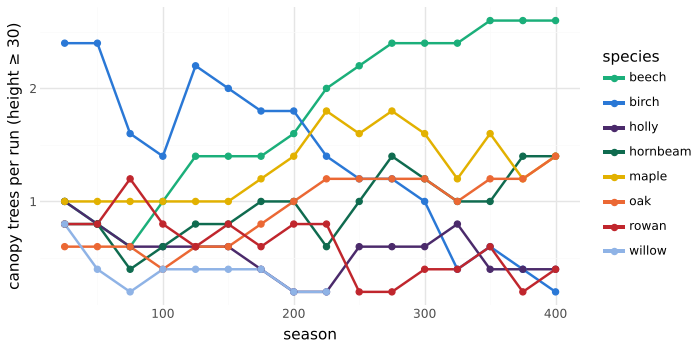
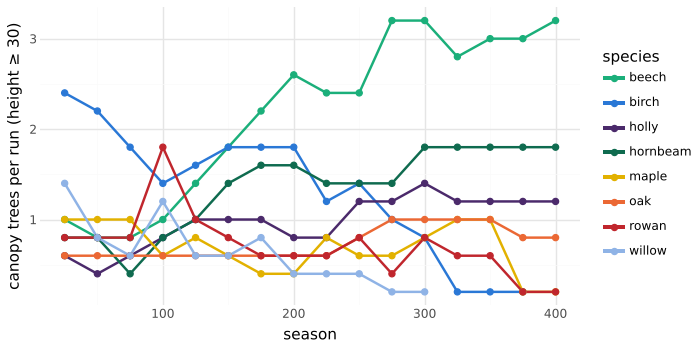
M25 follow-ups: field maple's lighter shade; seed rain brings willow back to clearings
Field maple cast a floor as dark as beech's and crowded the mixed wood's canopy. A lighter crown,
cheaper leaves and thicker tips put its floor between oak's and beech's.

O4 seeds came only from parents in the world, so goat willow could never return once it died out.
Seed rain (ADR 0018, agreed with the user; spec §O4 amended) adds per-species seeds from beyond the
world. It is off by default, so goldens are unchanged. A clearing in an old mixed wood now gets
willow in every seed tested, against none without it.

Claude-Session: https://claude.ai/code/session_01WY2dARdXcUqS9Uigs6Gdgt

diff --git a/src/core/principles/o4-stand.ts b/src/core/principles/o4-stand.ts
@@ -11,8 +11,13 @@
  * become seedlings that start growing next season; they keep R1's seed reserve, so a seedling in
  * deep shade starves within a few seasons. The stand is capped at `maxTrees` live trees.
  *
+ * Seed rain (ADR 0018): a species with o4.rain > 0 also gets that many seeds a season per 100
+ * cells from beyond the world (wind-borne willow and birch travel kilometres), the count's
+ * fraction drawn and each landing uniformly [RNG: seedRain, keyed by species, seed and season].
+ * They establish by the same light, spacing and p_est rule, so they take only in large gaps.
+ *
  * Params: o4.enabled, o4.cSeed (c_seed), o4.d, o4.qEst (Q_est), o4.pEst (p_est), o4.m0 (m₀),
- * o4.maxTrees; r1.fRep, r1.maturity (the seed supply); c2.C.
+ * o4.maxTrees, o4.rain; r1.fRep, r1.maturity (the seed supply); c2.C.
  */
 
 import type { LightSample } from "../light/light-model.ts";
@@ -27,6 +32,13 @@ const ground: LightSample = { q: 0, vx: 0, vy: 0 };
 export function diesOfBackground(world: World, tree: Tree): boolean {
   const { params, season } = world;
   return uniform(params.seed, Purpose.mortality, tree.id, 0, season) < world.paramsOf(tree).o4.m0;
+}
+
+/** A stable number for a species name, to key its seed-rain draws (FNV-1a). */
+export function speciesKey(name: string): number {
+  let h = 0x811c9dc5;
+  for (let i = 0; i < name.length; i++) h = Math.imul(h ^ name.charCodeAt(i), 0x01000193);
+  return h >>> 0;
 }
 
 /** Laplace(0, d) from a uniform u in [0, 1). */
@@ -70,6 +82,32 @@ export function standDynamics(world: World): number {
       if (world.trees.some((t) => t.alive && Math.abs(t.rootX - x) < 1)) continue;
       const seedling = new Tree(world.trees.length, x);
       seedling.species = parent.species;
+      plantSeedling(seedling, own, season + 1);
+      world.trees.push(seedling);
+      live += 1;
+      recruits += 1;
+    }
+  }
+  // Seed rain from beyond the world, species by species in the table's order.
+  const kinds = params.species ? Object.keys(params.species) : [undefined];
+  for (const species of kinds) {
+    const own = world.paramsOfSpecies(species);
+    const rain = ((own.o4.rain ?? 0) * W) / 100;
+    if (!(rain > 0)) continue;
+    const key = species ? speciesKey(species) : 0;
+    const { qEst, pEst } = own.o4;
+    const n =
+      Math.floor(rain) +
+      (uniform(params.seed, Purpose.seedRain, key, 0, season) < rain % 1 ? 1 : 0);
+    for (let k = 0; k < n; k++) {
+      if (live >= o4.maxTrees) return recruits;
+      const x = uniform(params.seed, Purpose.seedRain, key, 1, season, k) * W;
+      light.sample(x, 0.5, Math.PI / 2, ground);
+      if (C <= 0 || ground.q / C < qEst) continue;
+      if (uniform(params.seed, Purpose.seedRain, key, 2, season, k) >= pEst) continue;
+      if (world.trees.some((t) => t.alive && Math.abs(t.rootX - x) < 1)) continue;
+      const seedling = new Tree(world.trees.length, x);
+      if (species) seedling.species = species;
       plantSeedling(seedling, own, season + 1);
       world.trees.push(seedling);
       live += 1;

diff --git a/src/core/flora.ts b/src/core/flora.ts
@@ -70,7 +70,8 @@ export const FLORA = {
     r3: { leafMass: 0.001, phi: 0.5 },
     r4: { qRel: 0.3 },
     r6: { enabled: true, qMin: 0.12, leafArea: 1.6 },
-    o4: { cSeed: 2, d: 40, qEst: 0.25, pEst: 0.3, m0: 0.008 },
+    // Seed rain (ADR 0018): wind-borne seed from birches beyond the world reaches large gaps.
+    o4: { cSeed: 2, d: 40, qEst: 0.25, pEst: 0.3, m0: 0.008, rain: 0.2 },
   },
   /** Mid-tolerant, long-lived, broad and decurrent when grown in the open. */
   oak: {
@@ -171,7 +172,10 @@ export const FLORA = {
     leaf: "maple",
     c3: { mode: "bh", lambda: 0.5, alpha: 3.2 },
     c5: { enabled: true, T: 0.02, Trel: 0.06 },
-    r1: { mf: 0.05, Lh: 45, maturity: 30 },
+    // A lighter crown than beech's (fewer short-shoot leaves, M25 follow-up): its floor sits
+    // between oak's and beech's; cheaper leaves and thicker tips keep saplings and stems as before.
+    c6: { enabled: true, r0: 0.024 },
+    r1: { mf: 0.04, Lh: 45, maturity: 30 },
     // Maple's buds are opposite and decussate: each pair turns 90° from the last, so only every
     // other pair lies in the plane. That is one bud a node, as distichous gives; the "opposite"
     // generator doubled the in-plane buds and cast a floor darker than beech's.
@@ -188,7 +192,7 @@ export const FLORA = {
     },
     // Hard, dense wood (as oak's): ascending limbs hold a rounded crown instead of sagging flat.
     r3: { E: 2.5e6, c: 0.15, betaG: 0.2 },
-    r6: { enabled: true, qMin: 0.045, leafArea: 1.8 },
+    r6: { enabled: true, qMin: 0.045, leafArea: 1.5 },
     o4: { cSeed: 5, d: 25, qEst: 0.05, pEst: 0.3, m0: 0.004 },
   },
   /** Evergreen understorey tree: a deep, dark, conical crown that keeps its lower limbs in shade. */
@@ -264,8 +268,9 @@ export const FLORA = {
     },
     r4: { qRel: 0.3 },
     r6: { enabled: true, qMin: 0.15, leafArea: 1.5 },
-    // Tiny plumed seeds blow far but need bare, lit ground; a short life.
-    o4: { cSeed: 1.5, d: 60, qEst: 0.3, pEst: 0.3, m0: 0.012 },
+    // Tiny plumed seeds blow far but need bare, lit ground; a short life. Seed rain (ADR 0018)
+    // brings willow back to clearings after it has died out in the wood.
+    o4: { cSeed: 1.5, d: 60, qEst: 0.3, pEst: 0.3, m0: 0.012, rain: 1 },
   },
   /** Light-demanding pine, Rauh's model: whorls, a clean bole and a high crown (a lab species). */
   pine: {

diff --git a/src/core/flora.test.ts b/src/core/flora.test.ts
@@ -247,10 +247,32 @@ describe("the M25 species", () => {
         ["holly", "hornbeam"],
       );
     }
-    // Measured (5 seeds): birch and willow 2.8 canopy trees a run at season 50, 0.6 at 350;
-    // beech 2.6 at 350, the most of any species; holly and hornbeam 4.4 live trees.
+    // Measured (10 seeds, with seed rain): birch and willow 2.8 canopy trees a run at season 50,
+    // 0.1 at 350; beech 3.1 at 350, the most of any species; holly and hornbeam 6.8 live trees.
     expect(late).toBeLessThan(0.4 * early);
     expect(beech).toBeGreaterThanOrEqual(SEEDS.length);
     expect(shadeBearers).toBeGreaterThanOrEqual(2 * SEEDS.length);
+  });
+
+  it("brings goat willow back to a clearing only through seed rain (ADR 0018)", () => {
+    // An old mixed wood, a 60-cell clearing felled at season 300, then 40 seasons. Measured
+    // (6 seeds): no willow in any clearing without rain, 1–2 in every one with it.
+    const willows = (rain: boolean) =>
+      SEEDS.map((seed) => {
+        const params = presetParams("mixedWood", seed);
+        if (!rain)
+          for (const sp of Object.values(params.species ?? {}))
+            if (sp.o4) sp.o4 = { ...sp.o4, rain: 0 };
+        const world = new World(params);
+        world.run(300);
+        for (const t of world.trees)
+          if (t.alive && t.rootX >= 60 && t.rootX < 120) world.removeTree(t.id);
+        world.run(40);
+        return world.trees.filter(
+          (t) => t.alive && t.rootX >= 55 && t.rootX < 125 && t.species === "willow",
+        ).length;
+      });
+    for (const n of willows(false)) expect(n).toBe(0);
+    for (const n of willows(true)) expect(n).toBeGreaterThanOrEqual(1);
   });
 });

diff --git a/src/core/principles/o2-o4.test.ts b/src/core/principles/o2-o4.test.ts
@@ -69,6 +69,25 @@ describe("O4 stand dynamics (§O4, ADR 0013)", () => {
     expect(open.trees.length).toBeLessThan(ring.trees.length);
   });
 
+  it("rains seeds in from beyond the world, per species, at rain per 100 cells (ADR 0018)", () => {
+    // A world with no seed pool: only the rain recruits. 100 cells, rain 3 → 3 seeds a season.
+    const rained = (rain: number, species?: ParamsPatch["species"]) => {
+      const w = world({ species, o4: { enabled: true, rain } as Params["o4"] });
+      return { recruits: standDynamics(w), trees: w.trees };
+    };
+    expect(rained(0).recruits).toBe(0);
+    const on = rained(3);
+    expect(on.recruits).toBe(3); // every cell lit, p_est 1, the planted trunk at 50 aside
+    // Per species: only the species with rain arrives, and it is of that species.
+    const mixed = rained(0, { willow: { o4: { rain: 3 } }, oak: {} });
+    expect(mixed.recruits).toBe(3);
+    for (const t of mixed.trees.slice(1)) expect(t.species).toBe("willow");
+    // The same light rule as local seeds: nothing where the ground is below Q_est.
+    expect(rained(3, undefined).trees.length).toBe(4);
+    const shaded = world({ o4: { enabled: true, rain: 3, qEst: 2 } as Params["o4"] });
+    expect(standDynamics(shaded)).toBe(0);
+  });
+
   it("kills trees of background risk at rate m₀", () => {
     const w = world({ o4: { m0: 1 } });
     (w.trees[0] as Tree).age = 1;

diff --git a/src/core/params.ts b/src/core/params.ts
@@ -384,6 +384,13 @@ export interface Params {
     m0: number;
     /** Cap on live trees, so a page cannot run away. */
     maxTrees: number;
+    /**
+     * Seed rain (ADR 0018): seeds a season, per 100 cells of ground, that blow or are carried in
+     * from beyond the world and land anywhere, then establish by the same rule as local seeds.
+     * Per species, so a light-seeded pioneer can return to a clearing after it has died out
+     * locally. 0 or absent: off, only parents in the world seed it (calibrate).
+     */
+    rain?: number;
   };
 
   /** R6 Short shoots (spec §R6, ADR 0006). Off = baseline: every live bud is one unit of leaf area. */
@@ -498,7 +505,7 @@ export const defaultParams: Params = {
   r6: { enabled: false, qMin: 0.2, leafArea: 1 }, // calibrate (M6d)
   // M11 calibration (docs/experiments/2026-10-27-m11-stand-dynamics.md).
   o2: { enabled: false, sway: 0.0005, maxSway: 3, pAbr: 0.5, stormP: 0, stormLoad: 1.5 },
-  o4: { enabled: false, cSeed: 5, d: 20, qEst: 0.1, pEst: 0.3, m0: 0.002, maxTrees: 300 },
+  o4: { enabled: false, cSeed: 5, d: 20, qEst: 0.1, pEst: 0.3, m0: 0.002, maxTrees: 300, rain: 0 },
 };
 
 /** A partial set of overrides, merged one level deep into each section. */

diff --git a/src/core/world.ts b/src/core/world.ts
@@ -101,17 +101,22 @@ export class World {
    * params object itself, so single-species worlds are exactly as before.
    */
   paramsOf(tree: Tree): Params {
-    if (!tree.species) return this.params;
-    let p = this.speciesParams.get(tree.species);
+    return this.paramsOfSpecies(tree.species);
+  }
+
+  /** The params a tree of `species` grows by (the world's for none; cached per species). */
+  paramsOfSpecies(species: string | undefined): Params {
+    if (!species) return this.params;
+    let p = this.speciesParams.get(species);
     if (!p) {
-      const patch = this.params.species?.[tree.species];
+      const patch = this.params.species?.[species];
       if (patch) {
         const { common: _c, latin: _l, leaf: _f, ...groups } = patch;
         p = mergeParams(this.params, groups);
       } else {
         p = this.params;
       }
-      this.speciesParams.set(tree.species, p);
+      this.speciesParams.set(species, p);
     }
     return p;
   }

diff --git a/src/web/ui/panel.ts b/src/web/ui/panel.ts
@@ -231,6 +231,7 @@ const SECTIONS: SectionSpec[] = [
       { key: "qEst", label: "Q_est ground light", min: 0, max: 1, step: 0.01 },
       { key: "pEst", label: "p_est", min: 0, max: 1, step: 0.05 },
       { key: "m0", label: "m₀ background death", min: 0, max: 0.05, step: 0.001 },
+      { key: "rain", label: "seed rain /100 cells", min: 0, max: 5, step: 0.1 },
     ],
   },
 ];

diff --git a/src/core/rng.ts b/src/core/rng.ts
@@ -28,6 +28,7 @@ export const Purpose = {
   establishment: 10, // O4
   mortality: 11, // O4
   initialPositions: 12,
+  seedRain: 13, // O4: seeds from beyond the world (ADR 0018)
 } as const;
 export type Purpose = (typeof Purpose)[keyof typeof Purpose];
 

diff --git a/docs/experiments/2026-10-28-m25-species.md b/docs/experiments/2026-10-28-m25-species.md
@@ -71,7 +71,7 @@ The settings are M19's (`oakOpen` principles, 5 seeds each): a lone tree on 160 
 | Beech | 84 | 1.06 | 40 | 57° | 79 | 68 | 0.47 | 3.4% | 3% |
 | Fir | 110 | 0.41 | 49 | 75° | 84 | 65 | 0.76 | 6% | 2% |
 | **Hornbeam** | 62 | 1.46 | 37 | 54° | 64 | 61 | 0.31 | 2.4% | 3% |
-| **Field maple** | 62 | 0.97 | 57 | 45° | 59 | 74 | 0.40 | 3.4% | 5% |
+| **Field maple** | 63 | 1.02 | 58 | 44° | 56 | 70 | 0.53 | 4.0% | 5% |
 | **Holly** | 63 | 0.49 | 55 | 65° | 54 | 62 | 0.76 | 2.4% | 3% |
 | **Rowan** | 65 | 0.73 | 68 | 39° | 54 | 74 | 0.60 | 10% | 8% |
 | **Goat willow** | 44 | 2.31 | 29 | 53° | 43 | 40 | 0.48 | 13% | 19% |
@@ -109,24 +109,24 @@ The settings are M19's (`oakOpen` principles, 5 seeds each): a lone tree on 160 
 
 | Season | Beech | Birch | Hornbeam | Maple | Oak | Holly | Rowan | Willow |
 |---|---|---|---|---|---|---|---|---|
-| 50 | 0.8 | 2.4 | 0.8 | 1.0 | 0.6 | 0.8 | 0.8 | 0.4 |
-| 100 | 1.0 | 1.4 | 0.6 | 1.0 | 0.4 | 0.6 | 0.8 | 0.4 |
-| 200 | 1.6 | 1.8 | 1.0 | 1.4 | 1.0 | 0.2 | 0.8 | 0.2 |
-| 300 | 2.4 | 1.0 | 1.2 | 1.6 | 1.2 | 0.6 | 0.4 | 0 |
-| 400 | 2.6 | 0.2 | 1.4 | 1.4 | 1.4 | 0.4 | 0.4 | 0 |
+| 50 | 0.8 | 2.2 | 0.8 | 1.0 | 0.6 | 0.4 | 0.8 | 0.8 |
+| 100 | 1.0 | 1.4 | 0.8 | 0.6 | 0.6 | 0.8 | 1.8 | 1.2 |
+| 200 | 2.6 | 1.8 | 1.6 | 0.4 | 0.6 | 0.8 | 0.6 | 0.4 |
+| 300 | 3.2 | 0.8 | 1.8 | 0.8 | 1.0 | 1.4 | 0.8 | 0.2 |
+| 400 | 3.2 | 0 | 1.8 | 0.2 | 0.8 | 1.2 | 0.2 | 0 |
 
-- **Pioneers.** Birch leads for a century, and storm gaps keep it in the canopy to about season 250; by 400 it is almost gone. Goat willow holds a few small trees until about season 225 and then dies out. Its seeds need lit ground that an understorey of hornbeam, holly and maple seldom leaves.
-- **Beech** rises steadily to the most canopy trees, with 3.6 more per run coming up beneath at season 400.
+(These are the numbers after the follow-ups below: maple's lighter crown and seed rain.)
+
+- **Pioneers.** Birch leads for a century, and storm gaps keep it in the canopy to about season 300; by 400 it is gone. Goat willow holds a canopy tree or so to season 100, then lingers as small trees that seed rain brings into storm gaps.
+- **Beech** rises steadily to the most canopy trees, with 3 more per run coming up beneath at season 400.
 - **Hornbeam** rises beside it, as in oak–hornbeam–beech woods. Its saplings are always in the understorey (Dietz et al. 2022).
-- **Field maple** does better than expected: it holds 1.4–1.6 canopy trees from season 200, with many saplings.
+- **Field maple** holds 0.2–1 canopy trees, with saplings beneath. Before its follow-up it held 1.4–1.6, as many as hornbeam.
 - **Oak** holds on at about one tree a run. Storm gaps let it back in, but its saplings rarely reach the canopy.
-- **Holly and rowan** persist as small trees, in the canopy count and below it. Holly's numbers hinged on its seed cost: at c_seed 4 it overran the wood (3 canopy and 6 understorey trees a run by season 400), so the dioecy correction matters.
+- **Holly and rowan** persist as small trees, in the canopy count and below it. Holly gains slowly, to 1.2 canopy and 1.8 smaller trees per run at season 400. Holly's numbers hinged on its seed cost: at c_seed 4 it overran the wood (3 canopy and 6 understorey trees a run by season 400), so the dioecy correction matters.
 
 ## Deviations and caveats
 - **The new species' tolerance scores are approximate** (see the targets). The ordering is standard, but the numbers should be checked against Niinemets & Valladares's appendix.
-- **Field maple's floor (3.4%) is as dark as beech's,** where maple should cast lighter shade. With opposite buds on every axis, which doubles the buds in the plane, it was darker still (2.5%), so maple now uses distichous buds (one a node in the plane, as a decussate pair turning 90° gives).
-- **Field maple may be too vigorous** in the mixed wood: it is as common in the canopy as hornbeam.
-- **Goat willow never re-establishes after its first generation.** A real wood reseeds willow into large storm gaps or clearings. The model's storms snap and throw single trees, which leaves the shade-bearers' understorey in place. A bigger disturbance (a clearing, or a felled patch in the garden) should let it back in; that is not tested here.
+- **Field maple's buds are distichous in the model.** With opposite buds on every axis, which doubles the buds in the plane, its floor was 2.5%, darker than beech's. A decussate pair turning 90° puts one bud a node in the plane, as distichous does.
 - **Rowan stands are slender (H/D 74),** and so is the open-grown rowan (68). Rowan is a slender tree, but the open value is likely high.
 - **Pine is a lab species,** calibrated only in the open and in pure stands. Open-grown, it reads as a young pine (conical, whorled), not the flat-topped old pine of the Caledonian forest. That would need R2's late loss of apical control over more seasons.
 
@@ -137,7 +137,16 @@ The settings are M19's (`oakOpen` principles, 5 seeds each): a lone tree on 160 
   - deep shade under hornbeam and holly, light shade under pine and willow;
   - each species' characteristic form.
 - In the mixed wood, pioneers fade, beech and hornbeam rise, and holly, rowan and maple persist beneath. That is the composition of an old lowland wood, and it emerges without scripting.
-- **Follow-ups:**
-  - check the tolerance scores against the appendix;
-  - lighten field maple's shade, perhaps with a lower α;
-  - willow's return after large disturbances.
+- **Follow-ups:** check the tolerance scores against the appendix (still open, below).
+
+## Addendum: the follow-ups (2026-10-28, same day)
+- **Field maple's shade.**
+  - First, its floor was 3.4%, as dark as beech's, and maple was as common in the mixed wood's canopy as hornbeam.
+  - With a lighter crown (short-shoot leaf area 1.8 → 1.5), cheaper leaves (m_f 0.05 → 0.04, to keep saplings growing at 27% light) and thicker tips (r₀ 0.024, for stem slenderness), its floor is 4.0%, between oak's (6%) and beech's (3.4%).
+  - Shade survival is still 5%, and the crown still round (W/H 1.02).
+  - Lowering α alone did not lighten the floor (3.2%).
+- **Willow's return** (ADR 0018). O4 seeds came only from parents in the world, so once willow died out nothing could bring it back. Seed rain (`o4.rain`) adds seeds from beyond the world: willow 1 and birch 0.2 per 100 cells a season, establishing by the usual rule.
+  - **The clearing test:** fell every tree rooted in a 60-cell patch at season 300, then grow 40 seasons. Over 6 seeds, no clearing gets a willow without rain; with it, every clearing gets 1–2 (`flora.test.ts`).
+  - **The closed wood** is almost unchanged (10 seeds): birch falls from 2.0 canopy trees a run at season 50 to 0.1 at 350, and willow from 0.8 to 0.
+  - **Birch's rate:** at 0.5 it kept birch in the canopy past season 350.
+- **The tolerance scores are still unverified.** Neither the ESA archive nor the publisher's supplement is reachable from the session, and a web search turned up only neighbouring species (small-leaved lime 4.18, Norway maple 4.2).

diff --git a/docs/ROADMAP.md b/docs/ROADMAP.md
@@ -47,7 +47,7 @@ Three tracks: **A** performance (smooth on phones, bigger worlds, fast first pai
 | M22 | B | The §8 ablations as tests (C3 equal sharing, ξ = 0, R1, R6, R4, pooled light) and a pooled-light mode (`c2.model: "pooled"`) | — | `ablation.test.ts`; [note](experiments/2026-10-28-m22-ablations.md) | ✅ 2026-10-28 |
 | M23 | C | Leaves at a true scale and a silhouette per species, drawn density matching simulated leaf area; the time-lapse intro back on the home page (from the chosen seeds), with grown forests for reduced motion | Each species recognisable by its leaf | Frame bench (M15) holds | ✅ 2026-10-28 (releases with M22 as garden-v0.9.0): an outline per species, true-scale lengths, a smaller minimum size, the time-lapse back from the chosen seeds |
 | M24 | C | A wide plate: it breaks out of the text column on wide screens, and landscape worlds take 0.7 of the aspect's width, so trees draw about twice as large on a laptop. Leaf studies on the field card (`leafStudy`) | The forest fills a laptop; a card shows its species' leaf | `leaf-styles.test.ts` | ✅ 2026-10-28, live as garden-v0.10.0 (PR #17; site PR #4) |
-| M25 | B | New species: holly, rowan, hornbeam, goat willow, field maple for the home forest; Scots pine for the lab | A richer mixed wood | Calibration note per species; succession rerun | ✅ 2026-10-28 ([note](experiments/2026-10-28-m25-species.md)): the six calibrated in `flora.ts`; `mixedWood` is the home forest, `pineWood` a lab preset; leaf styles and palettes; `flora.test.ts` (shade order, floors and crowns, form, the mixed wood's succession). Live as garden-v0.11.0 (PR #18; site PR #5) |
+| M25 | B | New species: holly, rowan, hornbeam, goat willow, field maple for the home forest; Scots pine for the lab | A richer mixed wood | Calibration note per species; succession rerun | ✅ 2026-10-28 ([note](experiments/2026-10-28-m25-species.md)): the six calibrated in `flora.ts`; `mixedWood` is the home forest, `pineWood` a lab preset; leaf styles and palettes; `flora.test.ts` (shade order, floors and crowns, form, the mixed wood's succession). Live as garden-v0.11.0 (PR #18; site PR #5). Follow-ups: field maple's lighter shade (floor 4.0%); seed rain (ADR 0018) brings willow back to clearings; the tolerance scores await the user |
 
 ### Reading before each milestone
 From the [2026-10-27 literature review](research/2026-10-27-literature-review.md) §5.
@@ -80,7 +80,7 @@ From the [2026-10-27 literature review](research/2026-10-27-literature-review.md
 | R3 | Mechanics (ADR 0011) | §R3 | `r3.enabled`; `r3.posture` off = §8 "sag without posture"; `r3.sag` (`increment`, `creep`); `r3.girthGain` 0 = no stress wood | `principles/r3-mechanics.ts` (pre-girth radius in `season.ts`; stress wood out of the pipe sums in `c6-girth.ts`; `PaLevel.postureSetPoint`) | `r3-mechanics.test.ts`, `mechanics.test.ts` | R3 panel folder; colour: stress σ/σ_target; `weeping` and `troll` presets | ✅ M9 (breakage deferred) |
 | R4 | Dormancy, release, reiteration, bud bank (ADR 0012) | §R4 | `r4.enabled`; `r4.bank`; `r4.qRel` 99 = sugar route only | `principles/r4-dormancy.ts` (bud fate in `season.ts` `growBuds`; bank in `c5-shedding.ts` `removeBranches`; `paShift` in `c1-buds.ts`, `c3-allocation.ts`, `r3-mechanics.ts`) | `r4-r5.test.ts`, `release.test.ts`, `ablation.test.ts` | R4 panel folder; metrics `released`, `epicormic`, `aborted` | ✅ M10 |
 | R5 | Shade avoidance (ADR 0012) | §R5 | `r5.enabled` | `principles/r5-shade.ts` (node shade in `season.ts` `sampleNodes`; λ in `c3-allocation.ts`) | `r4-r5.test.ts`, `release.test.ts` | R5 panel folder | ✅ M10 (no far-red field) |
-| O4 | Stand dynamics (ADR 0013) | §O4 | `o4.enabled`; needs `r1.fRep` > 0 | `principles/o4-stand.ts` (seed pool in `r1-carbon.ts`; Phase 3 in `season.ts`); periodic sides in `light/sky-sweep.ts` | `o2-o4.test.ts`, `forest.test.ts` | O4 panel folder; `forest`, `thinning` presets; metrics `seeds`, `woodVolume`, `rootX` | ✅ M11 |
+| O4 | Stand dynamics (ADR 0013) | §O4 | `o4.enabled`; needs `r1.fRep` > 0 | `principles/o4-stand.ts` (seed pool in `r1-carbon.ts`; Phase 3 in `season.ts`); periodic sides in `light/sky-sweep.ts` | `o2-o4.test.ts`, `forest.test.ts`, `flora.test.ts` (seed rain into a clearing) | O4 panel folder (with seed rain); `forest`, `thinning` presets; metrics `seeds`, `woodVolume`, `rootX` | ✅ M11; seed rain `o4.rain` M25 (ADR 0018) |
 | O2 | Abrasion, crown shyness (ADR 0013) | §O2 | `o2.enabled` (off in every preset) | `principles/o2-shyness.ts` (owner grid in `season.ts`) | `o2-o4.test.ts` | O2 panel folder; metric `abraded` | ✅ M11 (no girth bonus, no wind events) |
 | O1, O3 | Optional | §O1, §O3 | — | — | — | — | ⏳ not planned |
 

diff --git a/docs/architecture.md b/docs/architecture.md
@@ -120,7 +120,7 @@ The passes need only `parent` and `slot`:
 | SHED, GIRTH | `shedBranches` (C5; threshold max(T, T_rel·Q_top), Q_top from `crownTopLight` after sampling, ADR 0007): marks dim laterals' subtrees on this season's Q_sum/n_b, records scars, compacts metamers and buds, remaps `parent` and `bud.metamer`. With `r1.shed: "carbon"` (R1 on) the test is P_b < M_b or light per metamer < T_rel·Q_top. Removal is shared with R3 breakage (`removeBranches`), which with R4's bud bank leaves a dormant bud in each vacated slot (`budAngle`). Then `updateGirth` (C6): basipetal pipe sums with memory, over the pipe radius r − stressWood | M4, M8, M10 |
 | MECHANICS (R3, ADR 0011) | When `r3.enabled`, `tree.prevRadius` takes the radius before `updateGirth`. After it, `updateMechanics` runs a basipetal pass for weight W, first moment S and M = S − W·x_base, with leaf weight from `depositArea`. It adds local stress wood where σ = 4·abs(M)/(πr³) > σ_target, and sets each metamer's turn: sag −φ·(M − `moment`)/(E·πr⁴/4)·l (`r3.sag: "creep"` uses the whole M), capped at `MAX_SAG`, plus posture −β_g·sin(A − A_set) − γ·kink, clamped to ±c·Δr/r. A_set comes from `postureSetPoint`: the R2 row's `postureSetPoint`, else its growth set-point, else `c4.setPoint`. All turns come from the start-of-pass geometry. An acropetal pass then accumulates them, rotates the metamers, rebuilds base positions and turns the buds. Metamers with σ > `r3.sigmaBreak` (off by default) break off through `removeBranches`, with `tree.stress` compacted alongside (`tree.broken`). `tree.stress` keeps σ/σ_target for the page | M9, M10 |
 | COMMIT_STAGING | `commitBuds` compacts consumed buds; new rows were appended past the phase's loop bounds | M0 |
-| Phase 3 abrasion, stand (M11, ADR 0013) | With O2, `depositBuds` also tags `world.owner` (tree id, −2 shared) and `abrade` kills leafy buds whose sway k·Q·h/r reaches another tree's foliage. R1 starvation deaths follow. With O4, `standDynamics` then applies background mortality m₀, turns each tree's `seedPool` (filled by R1's reproductive sink) into seeds, disperses them by Laplace(0, d), and establishes seedlings where ground light ≥ Q_est (p_est, no trunk within a cell, at most `maxTrees`), appending them to `world.trees` to grow next season | M11 |
+| Phase 3 abrasion, stand (M11, ADR 0013) | With O2, `depositBuds` also tags `world.owner` (tree id, −2 shared) and `abrade` kills leafy buds whose sway k·Q·h/r reaches another tree's foliage. R1 starvation deaths follow. With O4, `standDynamics` then applies background mortality m₀, turns each tree's `seedPool` (filled by R1's reproductive sink) into seeds, disperses them by Laplace(0, d), and establishes seedlings where ground light ≥ Q_est (p_est, no trunk within a cell, at most `maxTrees`), appending them to `world.trees` to grow next season. Seed rain (ADR 0018) then lands each species' `o4.rain` seeds per 100 cells uniformly and establishes them by the same rule | M11, M25 |
 
 **Shoot size (ADR 0004).** v' = min(v, `c1.maxMetamersPerShoot`), n = ⌊v'⌋, l = v'/n · l0: the resource is capped, then Palubicki's rule applies unchanged, as in the LPFG SOT model. Internodes stay within [1, 2)·l0.
 
@@ -154,6 +154,7 @@ All of them sit behind `LightModel.sample(x, y, dir) → {q, vx, vy}` (§C2.8):
 | O2 abrasion | (tree id, bud birthId, season) |
 | O4 mortality | (tree id, 0, season) |
 | O4 dispersal, establishment | (parent tree id, seed index, season) |
+| O4 seed rain (`seedRain`, 13) | (FNV hash of the species name, 0 count / 1 position / 2 establishment, season, seed index) |
 
 ## Direct manipulation
 

diff --git a/docs/spec.md b/docs/spec.md
@@ -270,9 +270,9 @@ Low R:FR also suppresses bud outgrowth, through ABA in the bud (Schneider et al.
 1. **Statement.** Surplus carbon produces seeds that disperse and establish where ground light suffices; trees die of starvation, breakage or background risk; self-thinning emerges.
 2. **Biology/models.** JABOWA (Botkin et al. 1972) and SORTIE (Pacala et al. 1993, 1996) build forest dynamics from individual growth, light competition, recruitment and mortality.\[36\]\[37\] Self-thinning: w ∝ ρ^(−3/2) (Yoda et al. 1963), qualified by Westoby (1984).\[38\]\[39\] Asymmetric light competition raises size inequality with density (Weiner 1990; Weiner et al. 2001).\[40\]\[41\]\[42\] In individual-based models the slope ranges from −0.9 to −1.8 (Mrad et al. 2020) and depends mainly on the mode of competition (Ma et al. 2019); models should be judged on several patterns at once, not the line alone (Reynolds & Ford 2005). A minimal cellular crown model already reproduces self-thinning, gap filling and crown asymmetry (Loehle 2025).
 3. **Evidence.** Individual-based modelling well established; −3/2 exponent debated.\[43\]
-4. **Local rule.** Seeds = ⌊f_rep·N⁺/c_seed⌋; position ~ parent + Laplace(0,d) **[RNG]**; establish if ground Q > Q_est with p_est **[RNG]**; p_die = m₀ + starvation + breakage **[RNG]**.
+4. **Local rule.** Seeds = ⌊f_rep·N⁺/c_seed⌋; position ~ parent + Laplace(0,d) **[RNG]**; establish if ground Q > Q_est with p_est **[RNG]**; p_die = m₀ + starvation + breakage **[RNG]**. Seed rain (ADR 0018): a species may also receive `rain` seeds per 100 cells a season from beyond the world, landing uniformly **[RNG]** and establishing by the same rule.
 5. **2D translation.** Ground is a line; density per metre. Stand experiments run on a ring (periodic world sides), so no tree has an open edge (ADR 0013). Establishment also needs no live trunk within one cell.
-6. **Parameters.** f_rep, c_seed, maturity, d, Q_est, p_est, m₀.
+6. **Parameters.** f_rep, c_seed, maturity, d, Q_est, p_est, m₀, rain.
 7. **Feedback.** Population-scale loop E.
 8. **Module boundary.** Separate; needs R1.
 9. **Multi-tree.** Population-only.
@@ -315,7 +315,7 @@ Parents-before-children order makes the basipetal pass a reverse loop and the ac
 
 **Global state:** season t; master seed with per-purpose streams hash(seed, tree_id, purpose), so enabling a principle never reshuffles another's numbers; species tables; principle flags; sky model; event queue; tree registry and seed bank; metrics log.
 
-**Randomness entry points:** side s₀ (C1), direction noise (C4), stochastic shedding (C5), sympodial termination (R2), stochastic break (R4), abrasion and wind (O2), seeds, dispersal, establishment, mortality (O4), initial positions.
+**Randomness entry points:** side s₀ (C1), direction noise (C4), stochastic shedding (C5), sympodial termination (R2), stochastic break (R4), abrasion and wind (O2), seeds, dispersal, establishment, mortality, seed rain (O4), initial positions.
 
 ---
 
